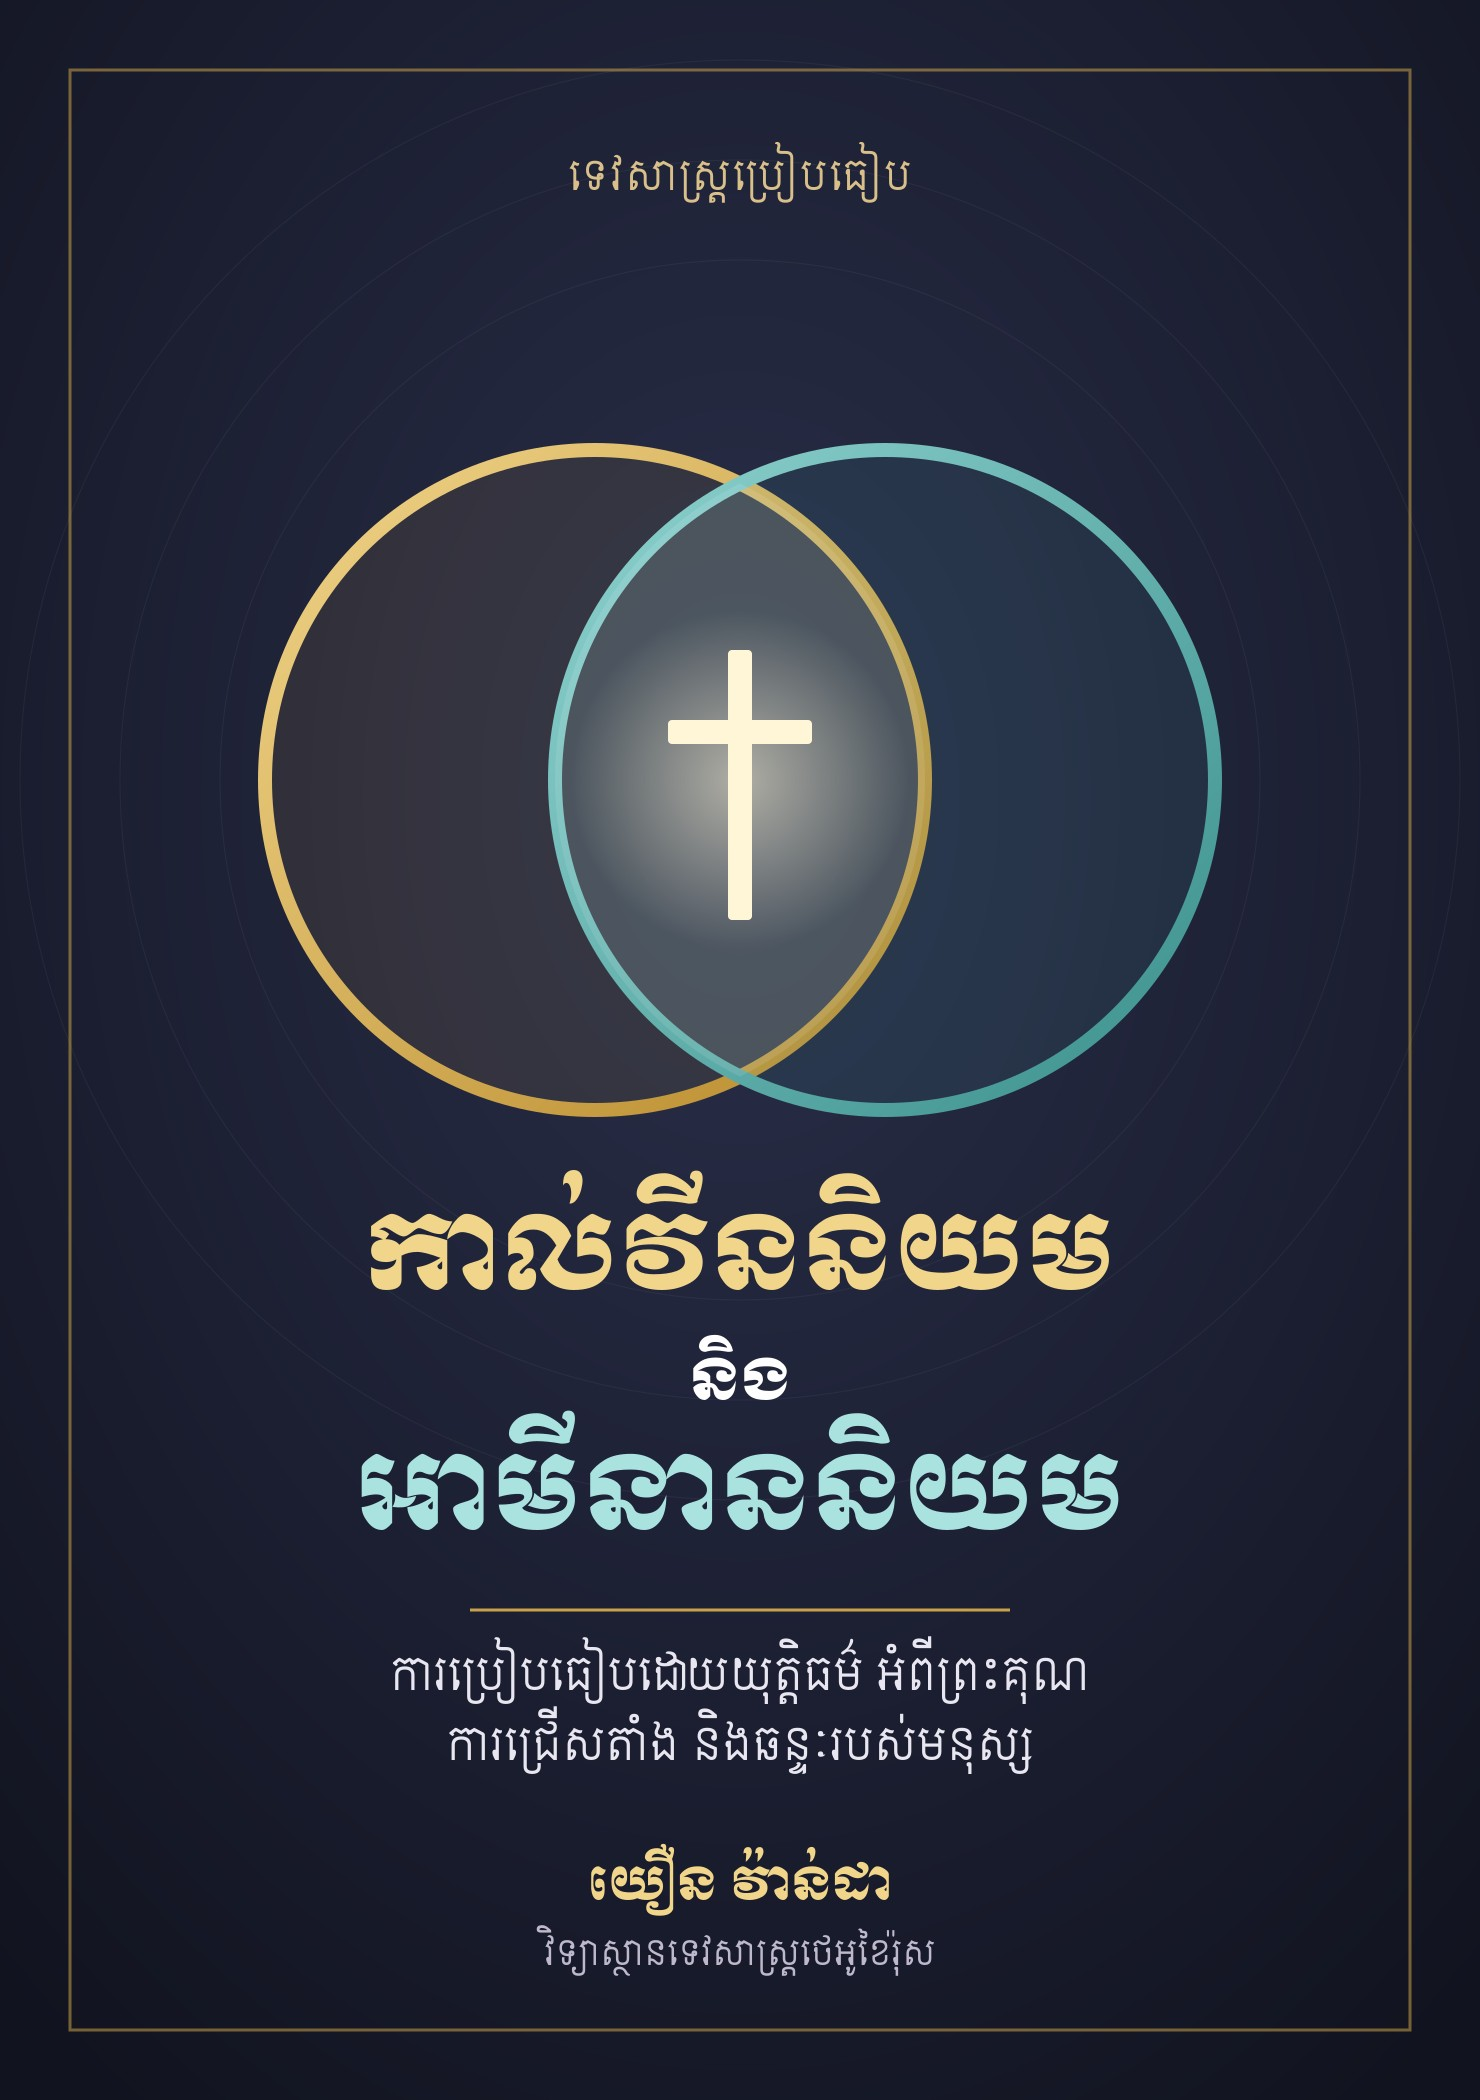
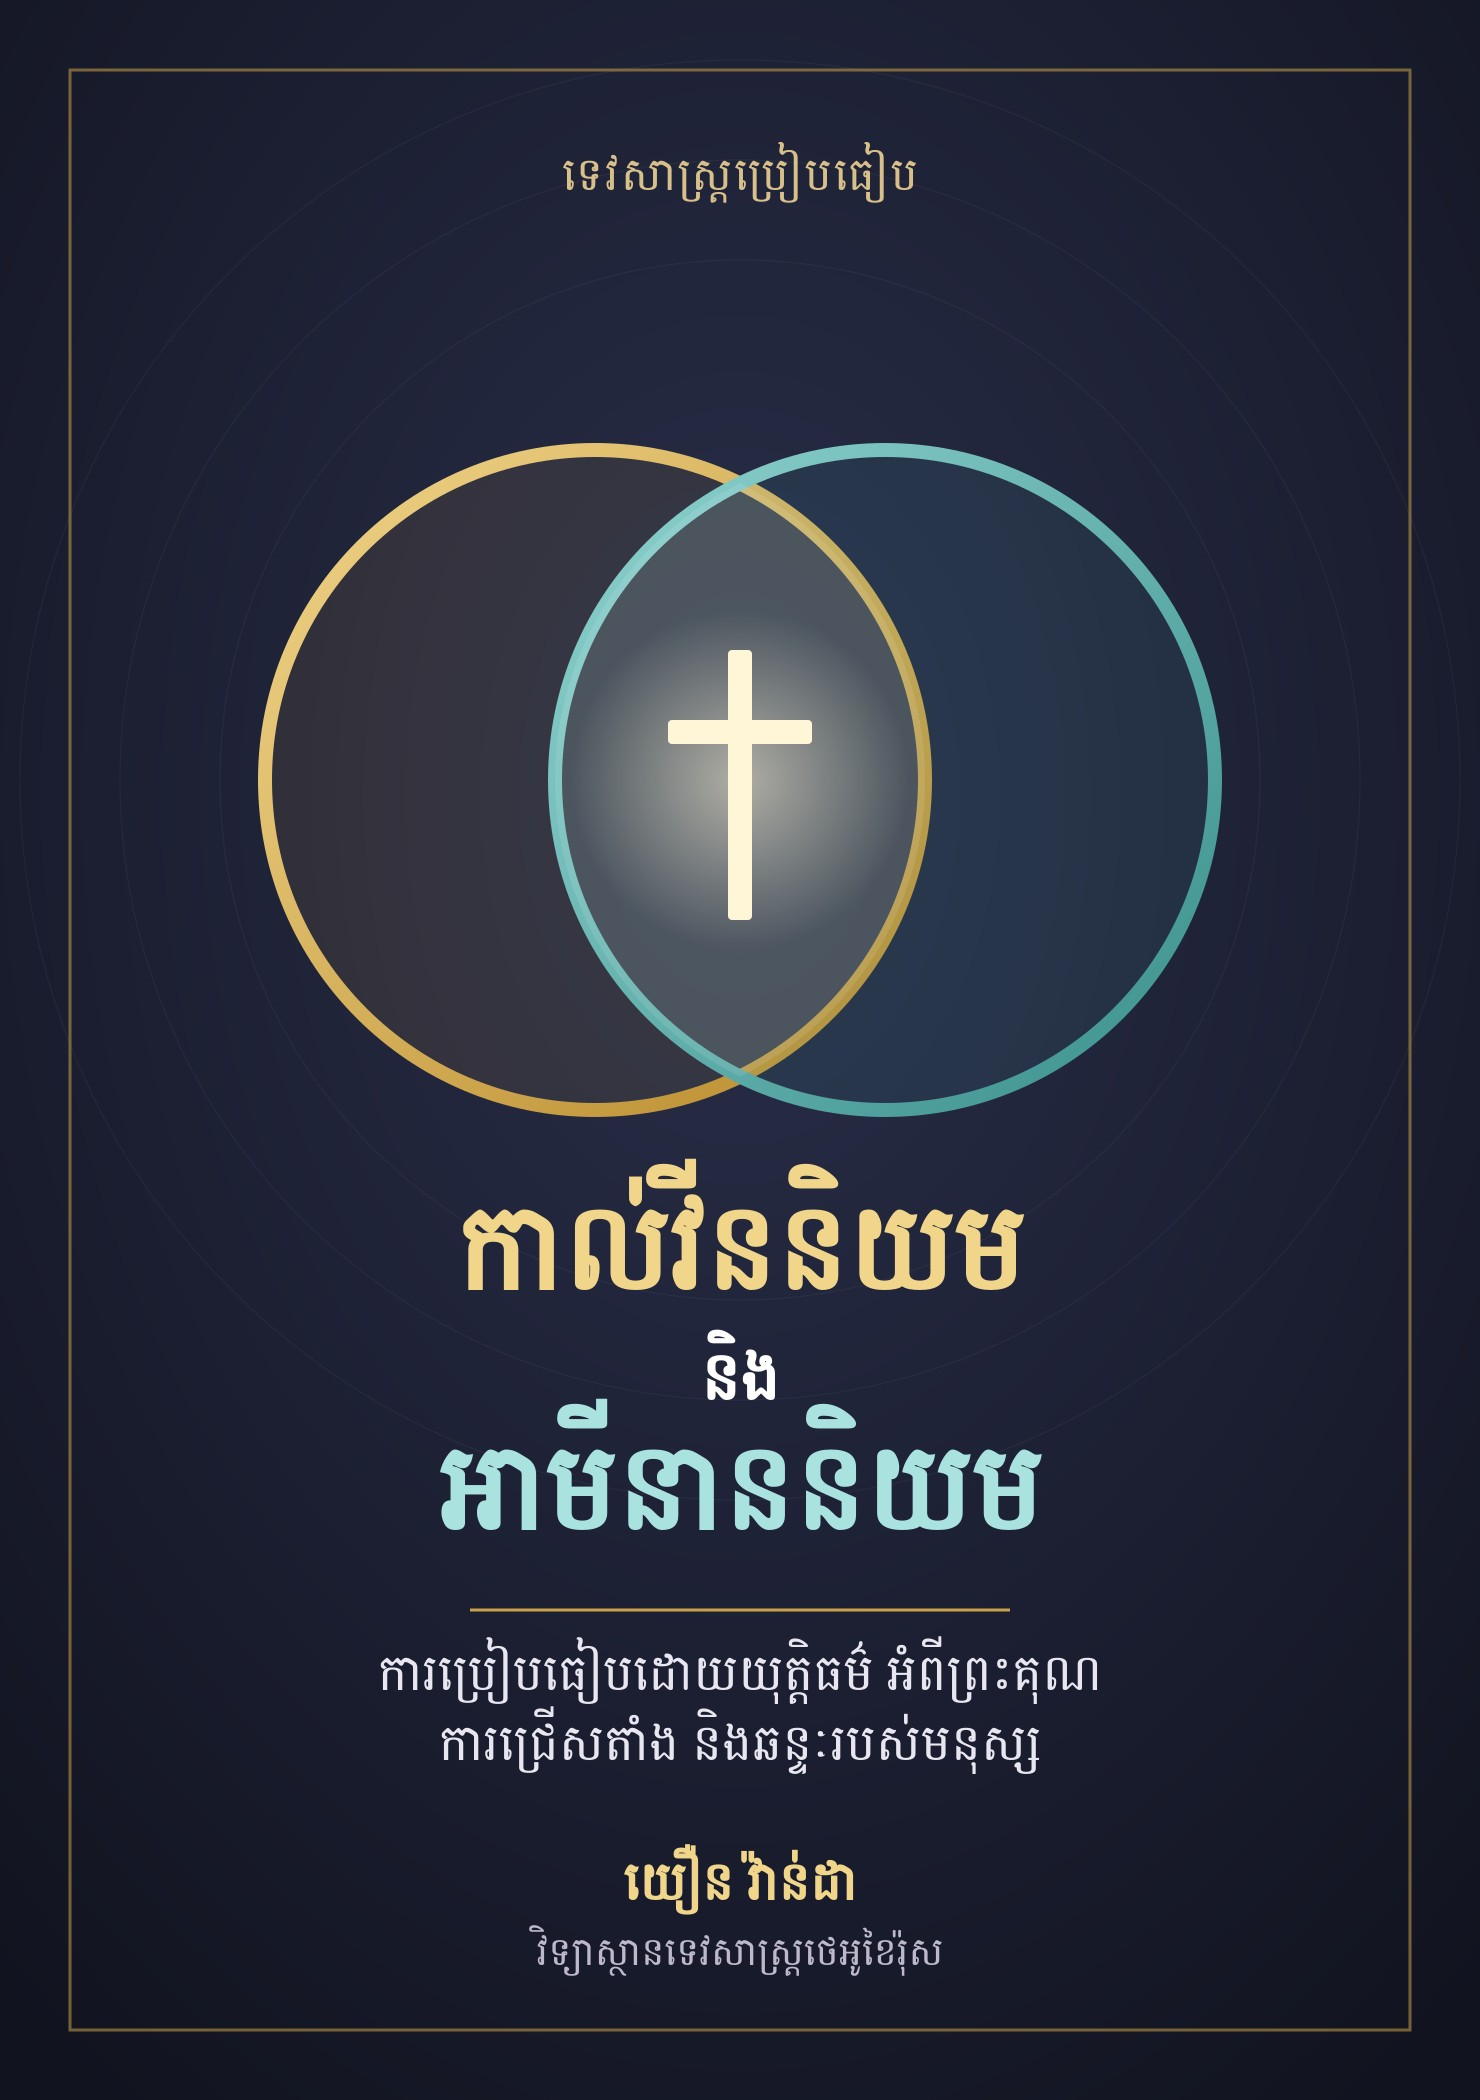
Use Khmer OS Battambang (web: Battambang) for book text; Battambang cover for Calvinism book
Claude-Session: https://claude.ai/code/session_01BTBqqsbPNRsuypa1XJh3uK

diff --git a/index.html b/index.html
@@ -13,7 +13,7 @@
 <meta name="apple-mobile-web-app-title" content="ថេអូខៃរ៉ុស">
 <link rel="preconnect" href="https://fonts.googleapis.com">
 <link rel="preconnect" href="https://fonts.gstatic.com" crossorigin>
-<link href="https://fonts.googleapis.com/css2?family=Moul&family=Kantumruy+Pro:wght@400;500;600;700&family=Noto+Serif+Khmer:wght@400;600;700&family=Noto+Sans+KR:wght@400;600&display=swap" rel="stylesheet">
+<link href="https://fonts.googleapis.com/css2?family=Moul&family=Battambang:wght@400;700&family=Kantumruy+Pro:wght@400;500;600;700&family=Noto+Serif+Khmer:wght@400;600;700&family=Noto+Sans+KR:wght@400;600&display=swap" rel="stylesheet">
 <style>
 :root{
   --navy:#14234a; --navy2:#1d3266; --gold:#c49a3a; --gold2:#e6c878;
@@ -114,7 +114,7 @@ img{-webkit-user-drag:none;user-drag:none;pointer-events:none}
 .reader .topbar{background:color-mix(in srgb,var(--rbg) 92%,transparent);border-color:var(--rline)}
 .reader .ib{color:var(--rink)}
 .prog{position:absolute;left:0;bottom:-1px;height:2px;background:var(--gold);transition:width .2s}
-.page{max-width:720px;margin:0 auto;padding:34px 22px 30px;font-family:"Noto Serif Khmer","Noto Sans KR",serif;font-size:var(--rs);line-height:2.05}
+.page{max-width:720px;margin:0 auto;padding:34px 22px 30px;font-family:"Khmer OS Battambang",Battambang,"Noto Sans KR",serif;font-size:var(--rs);line-height:2.05}
 .page p{margin:0 0 .85em;text-align:justify;text-justify:inter-character}
 .page p.c{text-align:center}
 .page p.tt{text-align:center;font-size:1.15em;font-weight:600}
